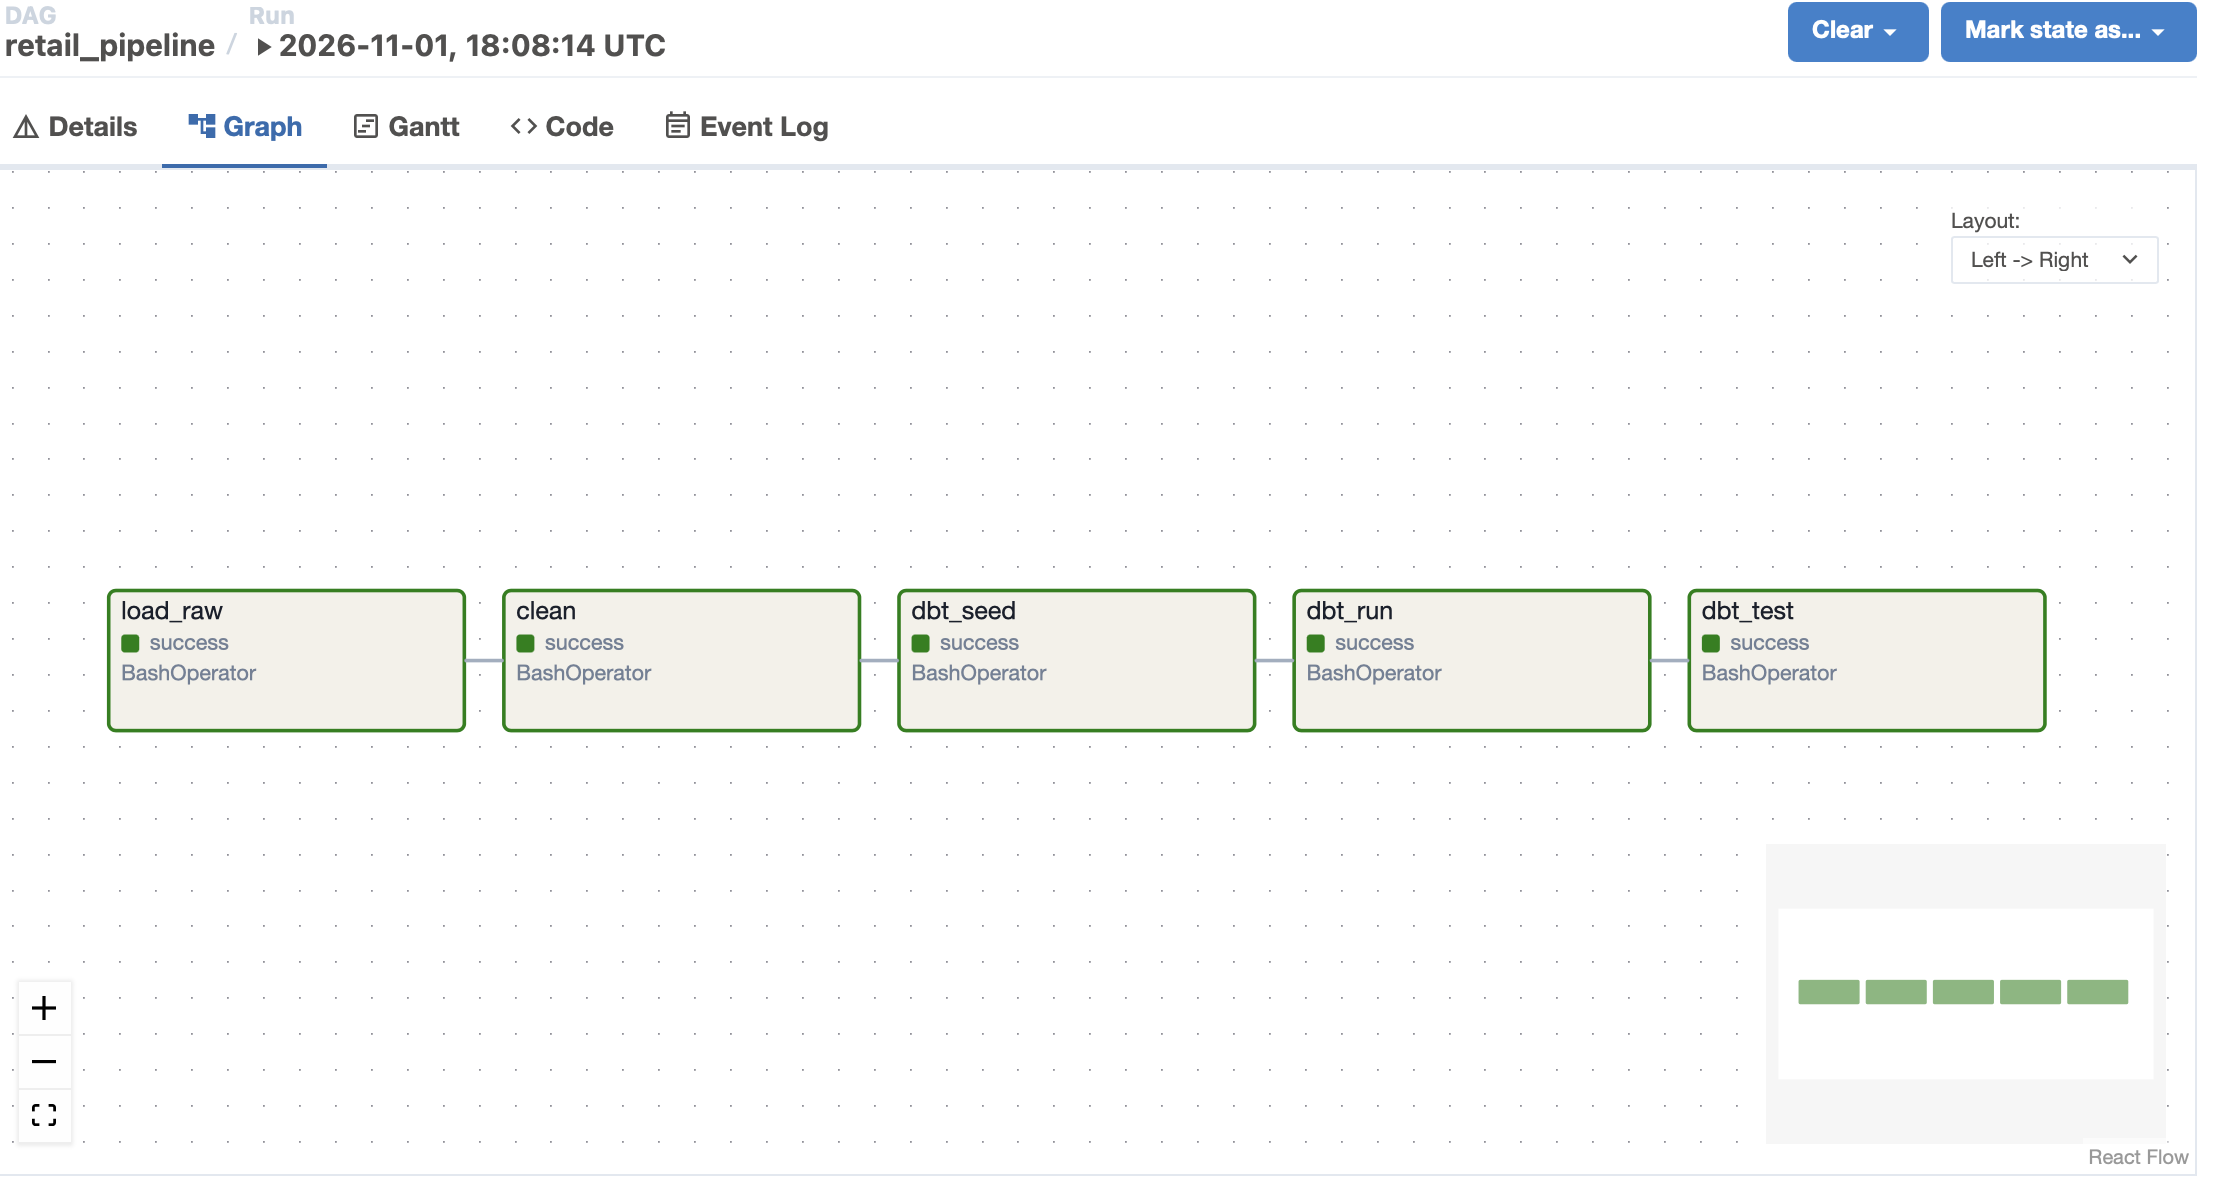
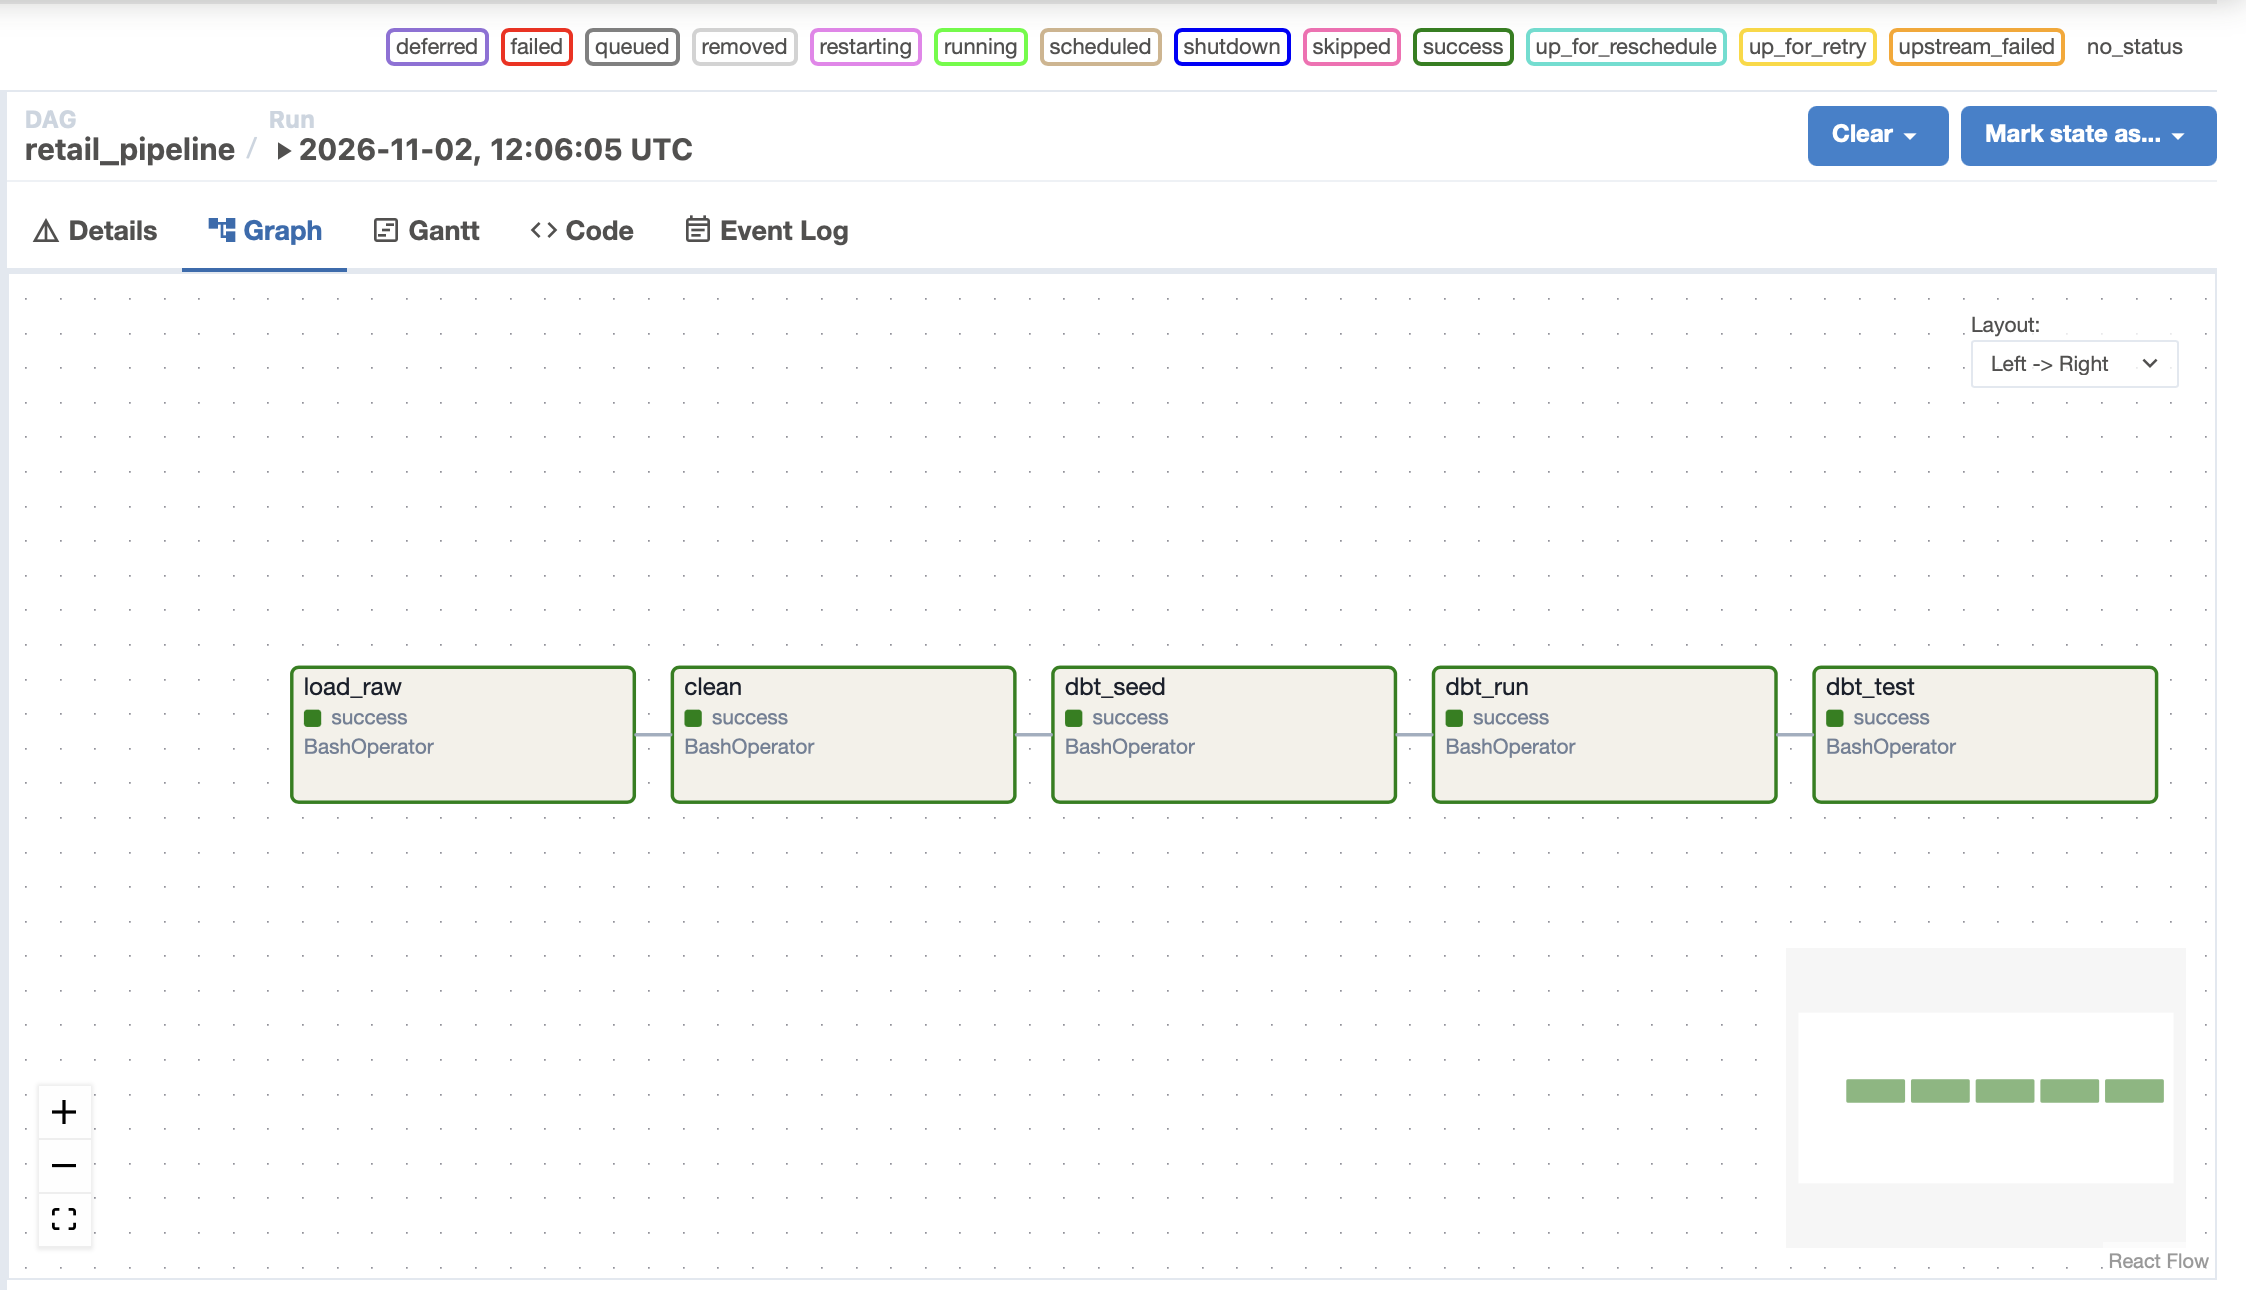
Store price as numeric, exact revenue test, update screenshots

Changed region(s): [[0.0, 0.0, 0.9919, 1.0], [0.8059, 0.8111, 0.9609, 0.8735], [0.9299, 0.9671, 0.9919, 0.9983]]

diff --git a/ingestion/clean.py b/ingestion/clean.py
@@ -1,15 +1,14 @@
+import os
 import pandas as pd
 from sqlalchemy import create_engine, text
-import os
+from sqlalchemy.types import Integer, Numeric
 
 PGHOST = os.getenv("PGHOST", "localhost")
 engine = create_engine(f"postgresql+psycopg2://retail:retail@{PGHOST}:5432/retail")
 
-# 1) อ่านข้อมูลดิบ
 df = pd.read_sql("SELECT * FROM raw.online_retail", engine)
 print("raw rows:", len(df))
 
-# 2) แปลง type
 df["quantity"] = pd.to_numeric(df["quantity"], errors="coerce")
 df["price"] = pd.to_numeric(df["price"], errors="coerce")
 df["invoice_date"] = pd.to_datetime(
@@ -19,7 +18,6 @@ df["invoice_date"] = pd.to_datetime(
 print(df.dtypes)
 print(df[["quantity", "price", "invoice_date"]].isna().sum())
 
-# 3) ลบแถวซ้ำ และติดธง
 business_cols = [
     "invoice", "stock_code", "description", "quantity",
     "invoice_date", "price", "customer_id", "country",
@@ -32,7 +30,6 @@ print("duplicates removed:", before - len(df))
 df["is_return"] = df["invoice"].str.startswith("C")
 df["has_customer"] = df["customer_id"].notna()
 
-# 4) แยกแถวที่ไม่ผ่านกฎ
 bad_price = df["price"] <= 0
 bad_qty = (df["quantity"] <= 0) & ~df["is_return"]
 reject_mask = bad_price | bad_qty
@@ -47,16 +44,24 @@ print("rejected rows:", len(rejected))
 print(rejected["reject_reason"].value_counts())
 print("clean rows:", len(clean))
 
-# 5) เขียนลง staging
+col_types = {
+    "quantity": Integer(),
+    "price": Numeric(12, 3),
+}
+clean["quantity"] = clean["quantity"].astype("Int64")
+rejected["quantity"] = rejected["quantity"].astype("Int64")
+
 with engine.begin() as conn:
     conn.execute(text("CREATE SCHEMA IF NOT EXISTS staging"))
 
 clean.to_sql(
     "online_retail", engine, schema="staging",
     if_exists="replace", index=False, chunksize=50000,
+    dtype=col_types,
 )
 rejected.to_sql(
     "rejected_rows", engine, schema="staging",
     if_exists="replace", index=False, chunksize=50000,
+    dtype=col_types,
 )
 print("written to staging")

diff --git a/airflow/dags/retail_pipeline.py b/airflow/dags/retail_pipeline.py
@@ -10,6 +10,7 @@ DBT = "/opt/airflow/pipeline-venv/bin/dbt"
 default_args = {
     "retries": 2,
     "retry_delay": timedelta(minutes=1),
+    "execution_timeout": timedelta(minutes=30),
 }
 
 with DAG(

diff --git a/README.md b/README.md
@@ -75,7 +75,9 @@ dbt runs 14 tests, and all pass:
 
 - Every ID is unique and not empty.
 - Every sale points to a customer, product and date that exist.
-- The total sales amount in `fact_sales` matches the total in staging. This test failed the first time because of a rounding difference of 0.018 on 19 million, so I allowed a difference up to 1.
+- The total sales amount in `fact_sales` matches the total in staging exactly.
+
+At first this test failed by a small amount (0.018 on 19 million). The reason was that `price` was stored as a float, and floats can't store most decimal numbers exactly. When you add up 1 million of them, the tiny errors add up too. Even summing the same rows in a different order gave a different result in the 7th decimal place. I changed `price` to `numeric` and `quantity` to `integer` in staging, and stopped rounding each line in `fact_sales`. Now the two totals are exactly the same, with no tolerance.
 
 ## Dashboard
 
